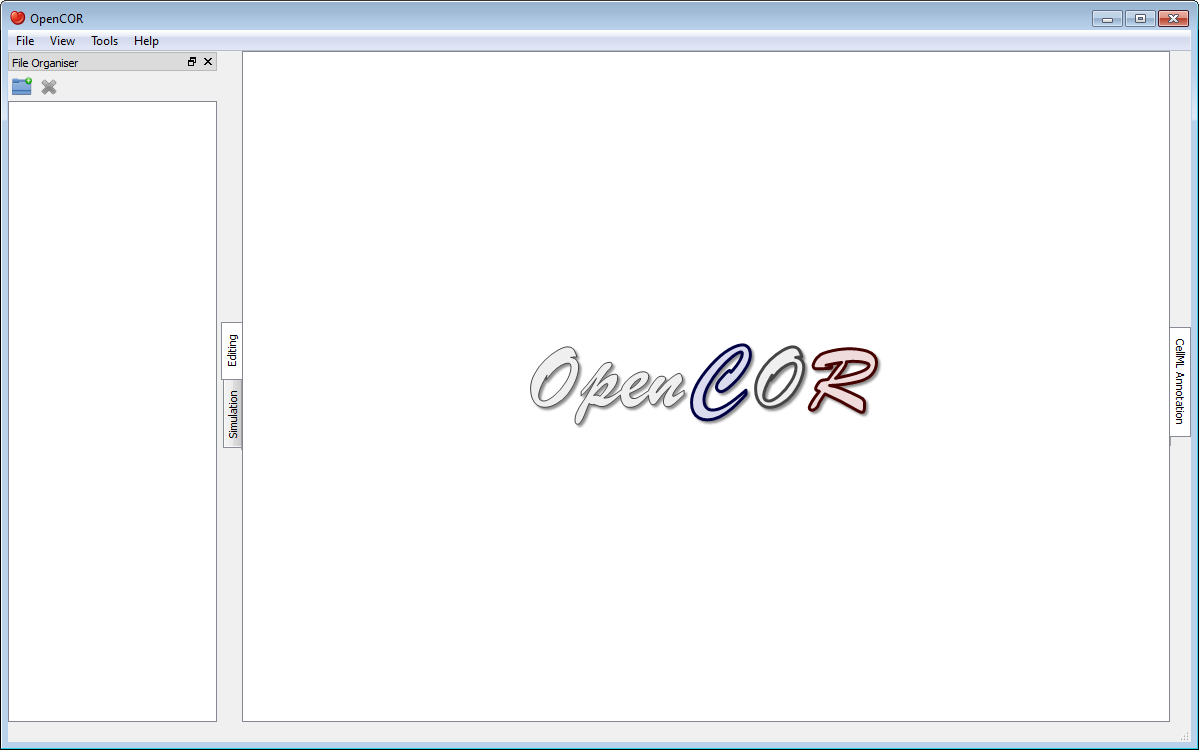
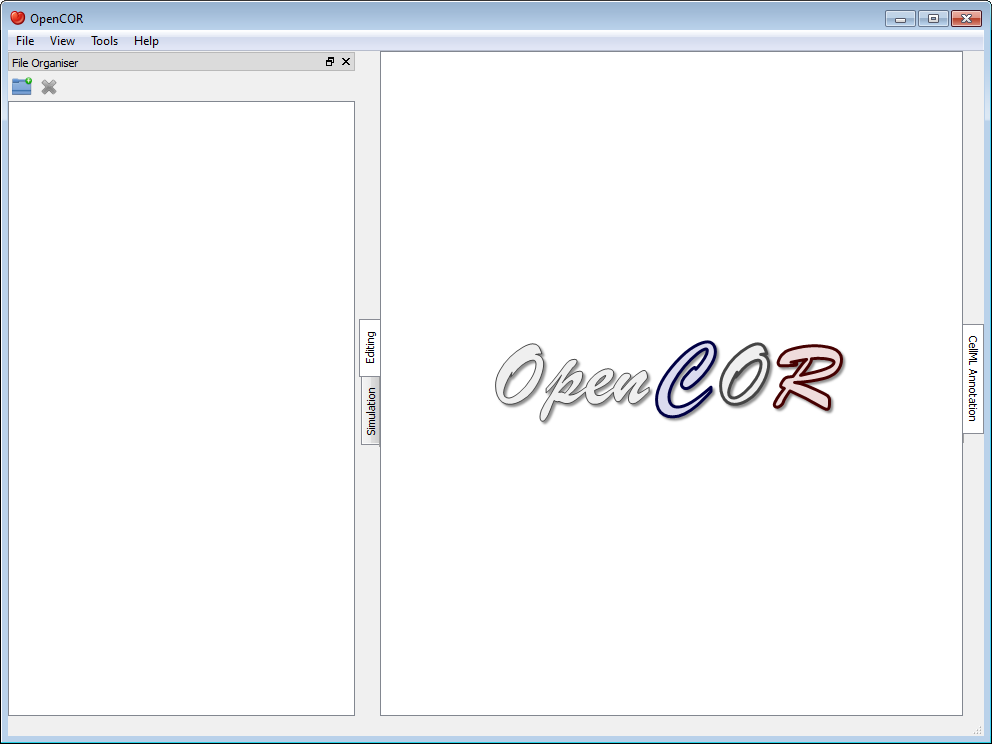
Some editing of our documentation.

diff --git a/doc/user/plugins/FileOrganiser.html b/doc/user/plugins/FileOrganiser.html
@@ -22,48 +22,48 @@
             The FileOrganiser plugin allows you to organise your files virtually, i.e. independently of where they are physically located, remembering your virtual environment from one session to another. By default, your virtual environment will be empty:
         </p>
 
-        <p>
-            <a class="image" href="../res/image.html?image=../plugins/res/pics/FileOrganiserScreenshot01.png&caption=FileOrganiser plugin: default view"><img class="centerLink" src="res/pics/FileOrganiserScreenshot01Small.png" width=480 height=300 alt="FileOrganiser plugin: default view"></a>
+        <p class="center">
+            <a class="image" href="../res/image.html?image=../plugins/res/pics/FileOrganiserScreenshot01.png&caption=FileOrganiser plugin: default view"><img class="link" src="res/pics/FileOrganiserScreenshot01Small.png" width=360 height=270 alt="FileOrganiser plugin: default view"></a>
         </p>
 
         <p>
             Say that you are wokring on a particular modelling study. You might then want to create a (virtual) folder for your study and have your models (which could be physically located anywhere). To do so, you would first click on the <img src="res/pics/oxygen/actions/folder-new.png" width=24 height=24 alt="New" align=absmiddle> icon in the toolbar (or by using the context menu). This will add a folder to your virtual environment:
         </p>
 
-        <p>
-            <a class="image" href="../res/image.html?image=../plugins/res/pics/FileOrganiserScreenshot02.png&caption=FileOrganiser plugin: create a folder"><img class="centerLink" src="res/pics/FileOrganiserScreenshot02Small.png" width=480 height=300 alt="FileOrganiser plugin: create a folder"></a>
+        <p class="center">
+            <a class="image" href="../res/image.html?image=../plugins/res/pics/FileOrganiserScreenshot02.png&caption=FileOrganiser plugin: create a folder"><img class="link" src="res/pics/FileOrganiserScreenshot02Small.png" width=360 height=270 alt="FileOrganiser plugin: create a folder"></a>
         </p>
 
         <p>
             You can rename the folder as you wish, as well as create other ones, including some sub-folders, if needed:
         </p>
 
-        <p>
-            <a class="image" href="../res/image.html?image=../plugins/res/pics/FileOrganiserScreenshot03.png&caption=FileOrganiser plugin: create several (sub-)folders"><img class="centerLink" src="res/pics/FileOrganiserScreenshot03Small.png" width=480 height=300 alt="FileOrganiser plugin: create several (sub-)folders"></a>
+        <p class="center">
+            <a class="image" href="../res/image.html?image=../plugins/res/pics/FileOrganiserScreenshot03.png&caption=FileOrganiser plugin: create several (sub-)folders"><img class="link" src="res/pics/FileOrganiserScreenshot03Small.png" width=360 height=270 alt="FileOrganiser plugin: create several (sub-)folders"></a>
         </p>
 
         <p>
             You can move the (sub-)folders around by simply dragging and dropping them, or delete an existing (sub-)folder by clicking on the <img src="res/pics/oxygen/actions/edit-delete.png" width=24 height=24 alt="Delete" align=absmiddle> icon in the toolbar (or by using the context menu):
         </p>
 
-        <p>
-            <a class="image" href="../res/image.html?image=../plugins/res/pics/FileOrganiserScreenshot04.png&caption=FileOrganiser plugin: move/delete (sub-)folders"><img class="centerLink" src="res/pics/FileOrganiserScreenshot04Small.png" width=480 height=300 alt="FileOrganiser plugin: move/delete (sub-)folders"></a>
+        <p class="center">
+            <a class="image" href="../res/image.html?image=../plugins/res/pics/FileOrganiserScreenshot04.png&caption=FileOrganiser plugin: move/delete (sub-)folders"><img class="link" src="res/pics/FileOrganiserScreenshot04Small.png" width=360 height=270 alt="FileOrganiser plugin: move/delete (sub-)folders"></a>
         </p>
 
         <p>
             Next, you might want to open the <a href="FileBrowser.html">File Browser</a> window, so you can start dragging and dropping files into your virtual environment:
         </p>
 
-        <p>
-            <a class="image" href="../res/image.html?image=../plugins/res/pics/FileOrganiserScreenshot05.png&caption=FileOrganiser plugin: add files"><img class="centerLink" src="res/pics/FileOrganiserScreenshot05Small.png" width=480 height=300 alt="FileOrganiser plugin: add files"></a>
+        <p class="center">
+            <a class="image" href="../res/image.html?image=../plugins/res/pics/FileOrganiserScreenshot05.png&caption=FileOrganiser plugin: add files"><img class="link" src="res/pics/FileOrganiserScreenshot05Small.png" width=360 height=270 alt="FileOrganiser plugin: add files"></a>
         </p>
 
         <p>
             As for folders, you can move and delete your (virtual) files:
         </p>
 
-        <p>
-            <a class="image" href="../res/image.html?image=../plugins/res/pics/FileOrganiserScreenshot06.png&caption=FileOrganiser plugin: move/delete files"><img class="centerLink" src="res/pics/FileOrganiserScreenshot06Small.png" width=480 height=300 alt="FileOrganiser plugin: move/delete files"></a>
+        <p class="center">
+            <a class="image" href="../res/image.html?image=../plugins/res/pics/FileOrganiserScreenshot06.png&caption=FileOrganiser plugin: move/delete files"><img class="link" src="res/pics/FileOrganiserScreenshot06Small.png" width=360 height=270 alt="FileOrganiser plugin: move/delete files"></a>
         </p>
 
         <div class="section">

diff --git a/doc/user/userInterfaces/graphicalUserInterface.html b/doc/user/userInterfaces/graphicalUserInterface.html
@@ -22,16 +22,16 @@
             OpenCOR offers a consistent GUI across the <a href="../supportedPlatforms.html">different platforms</a> it supports. The look and feel of the interface is determined by the <a href="../plugins/index.html">plugins</a> which are selected. The first time you run OpenCOR, it will look something like this:
         </p>
 
-        <p>
-            <a class="image" href="../res/image.html?image=../userInterfaces/res/pics/screenshot01.png&caption=Default looking OpenCOR"><img class="centerLink" src="res/pics/screenshot01Small.png" width=360 height=270 alt="Default looking OpenCOR"></a>
+        <p class="center">
+            <a class="image" href="../res/image.html?image=../userInterfaces/res/pics/screenshot01.png&caption=Default looking OpenCOR"><img class="link" src="res/pics/screenshot01Small.png" width=360 height=270 alt="Default looking OpenCOR"></a>
         </p>
 
         <p>
             There is a central area which is used to interact with files. By default, no file is opened, hence the OpenCOR logo is shown instead. To the sides, there are dockable windows which each provide additional features. Those windows can be dragged and dropped to the top or bottom of the central area:
         </p>
 
-        <p>
-            <a class="image" href="../res/image.html?image=../userInterfaces/res/pics/screenshot02.png&caption=Use of all docking areas"><img class="centerLink" src="res/pics/screenshot02Small.png" width=360 height=270 alt="Use of all docking areas"></a>
+        <p class="center">
+            <a class="image" href="../res/image.html?image=../userInterfaces/res/pics/screenshot02.png&caption=Use of all docking areas"><img class="link" src="res/pics/screenshot02Small.png" width=360 height=270 alt="Use of all docking areas"></a>
         </p>
 
         <p>
@@ -46,16 +46,16 @@
             Or even closed, either by directly closing the window itself or by unticking the corresponding menu item (under the <code>View</code> menu, or the <code>Help</code> menu for the Help window):
         </p>
 
-        <p>
-            <a class="image" href="../res/image.html?image=../userInterfaces/res/pics/screenshot04.png&caption=Showing/hiding windows"><img class="centerLink" src="res/pics/screenshot04Small.png" width=360 height=270 alt="Showing/hiding windows"></a>
+        <p class="center">
+            <a class="image" href="../res/image.html?image=../userInterfaces/res/pics/screenshot04.png&caption=Showing/hiding windows"><img class="link" src="res/pics/screenshot04Small.png" width=360 height=270 alt="Showing/hiding windows"></a>
         </p>
 
         <p>
             To unselect all the <a href="../plugins/index.html">plugins</a> will result in OpenCOR looking 'empty':
         </p>
 
-        <p>
-            <a class="image" href="../res/image.html?image=../userInterfaces/res/pics/screenshot05.png&caption=Empty looking OpenCOR"><img class="centerLink" src="res/pics/screenshot05Small.png" width=360 height=270 alt="Empty looking OpenCOR"></a>
+        <p class="center">
+            <a class="image" href="../res/image.html?image=../userInterfaces/res/pics/screenshot05.png&caption=Empty looking OpenCOR"><img class="link" src="res/pics/screenshot05Small.png" width=360 height=270 alt="Empty looking OpenCOR"></a>
         </p>
 
         <div class="section">

diff --git a/doc/user/plugins/FileBrowser.html b/doc/user/plugins/FileBrowser.html
@@ -22,24 +22,24 @@
             The FileBrowser plugin offers a convenient way to access your physical files, remembering the folder or file which was selected when you last ran OpenCOR. By default, it will start by selecting your home directory:
         </p>
 
-        <p>
-            <a class="image" href="../res/image.html?image=../plugins/res/pics/FileBrowserScreenshot01.png&caption=FileBrowser plugin: default view"><img class="centerLink" src="res/pics/FileBrowserScreenshot01Small.png" width=360 height=270 alt="FileBrowser plugin: default view"></a>
+        <p class="center">
+            <a class="image" href="../res/image.html?image=../plugins/res/pics/FileBrowserScreenshot01.png&caption=FileBrowser plugin: default view"><img class="link" src="res/pics/FileBrowserScreenshot01Small.png" width=360 height=270 alt="FileBrowser plugin: default view"></a>
         </p>
 
         <p>
             As expected, to double click on a folder will expand its contents, as can be seen by expanding the Windows directory:
         </p>
 
-        <p>
-            <a class="image" href="../res/image.html?image=../plugins/res/pics/FileBrowserScreenshot02.png&caption=FileBrowser plugin: double clicking on a folder"><img class="centerLink" src="res/pics/FileBrowserScreenshot02Small.png" width=360 height=270 alt="FileBrowser plugin: double clicking on a folder"></a>
+        <p class="center">
+            <a class="image" href="../res/image.html?image=../plugins/res/pics/FileBrowserScreenshot02.png&caption=FileBrowser plugin: double clicking on a folder"><img class="link" src="res/pics/FileBrowserScreenshot02Small.png" width=360 height=270 alt="FileBrowser plugin: double clicking on a folder"></a>
         </p>
 
         <p>
             While double clicking on a file will result in it being opened by OpenCOR. The rendering of the file will depend on the current view plugin. In the case of the <a href="CellMLAnnotationView.html">CellMLAnnotationView</a> plugin, it will look as follows:
         </p>
 
-        <p>
-            <a class="image" href="../res/image.html?image=../plugins/res/pics/FileBrowserScreenshot03.png&caption=FileBrowser plugin: double clicking on a file"><img class="centerLink" src="res/pics/FileBrowserScreenshot03Small.png" width=360 height=270 alt="FileBrowser plugin: double clicking on a file"></a>
+        <p class="center">
+            <a class="image" href="../res/image.html?image=../plugins/res/pics/FileBrowserScreenshot03.png&caption=FileBrowser plugin: double clicking on a file"><img class="link" src="res/pics/FileBrowserScreenshot03Small.png" width=360 height=270 alt="FileBrowser plugin: double clicking on a file"></a>
         </p>
 
         <p>

diff --git a/doc/user/plugins/Help.html b/doc/user/plugins/Help.html
@@ -22,24 +22,24 @@
             The Help plugin provides some user documentation looks as follows:
         </p>
 
-        <p>
-            <a class="image" href="../res/image.html?image=../plugins/res/pics/HelpScreenshot01.png&caption=Help plugin: default view"><img class="centerLink" src="res/pics/HelpScreenshot01Small.png" width=480 height=300 alt="Help plugin: default view"></a>
+        <p class="center">
+            <a class="image" href="../res/image.html?image=../plugins/res/pics/HelpScreenshot01.png&caption=Help plugin: default view"><img class="link" src="res/pics/HelpScreenshot01Small.png" width=360 height=270 alt="Help plugin: default view"></a>
         </p>
 
         <p>
             As any <a href="userInterfaces/graphicalUserInterface.html">dockable window</a>, it can be hidden either directly or through the menu. However, not through the <code>View</code> menu but the <code>Help</code> menu:
         </p>
 
-        <p>
-            <a class="image" href="../res/image.html?image=../plugins/res/pics/HelpScreenshot02.png&caption=Help plugin: show/hide the plugin"><img class="centerLink" src="res/pics/HelpScreenshot02Small.png" width=480 height=300 alt="Help plugin: show/hide the plugin"></a>
+        <p class="center">
+            <a class="image" href="../res/image.html?image=../plugins/res/pics/HelpScreenshot02.png&caption=Help plugin: show/hide the plugin"><img class="link" src="res/pics/HelpScreenshot02Small.png" width=360 height=270 alt="Help plugin: show/hide the plugin"></a>
         </p>
 
         <p>
             The contents of the documentation provided by the Help plugin is the same as the one found in the <a href="http://www.opencor.ws/user/index.html">user documentation</a> section of the <a href="http://www.opencor.ws/">OpenCOR website</a>. This includes a menu which gets shown when hovering over the information icon (in the top right):
         </p>
 
-        <p>
-            <a class="image" href="../res/image.html?image=../plugins/res/pics/HelpScreenshot03.png&caption=Help plugin: context menu"><img class="centerLink" src="res/pics/HelpScreenshot03Small.png" width=480 height=300 alt="Help plugin: context menu"></a>
+        <p class="center">
+            <a class="image" href="../res/image.html?image=../plugins/res/pics/HelpScreenshot03.png&caption=Help plugin: context menu"><img class="link" src="res/pics/HelpScreenshot03Small.png" width=360 height=270 alt="Help plugin: context menu"></a>
         </p>
 
         <p>

diff --git a/doc/user/plugins/CellMLModelRepository.html b/doc/user/plugins/CellMLModelRepository.html
@@ -22,16 +22,16 @@
             The CellMLModelRepository plugin offers an interface to the <a href="http://models.cellml.org/">CellML Model Repository</a>. By default, it lists all the CellML models found in the repository:
         </p>
 
-        <p>
-            <a class="image" href="../res/image.html?image=../plugins/res/pics/CellMLModelRepositoryScreenshot01.png&caption=CellMLModelRepository plugin: list of all the CellML files"><img class="centerLink" src="res/pics/CellMLModelRepositoryScreenshot01Small.png" width=360 height=270 alt="CellMLModelRepository plugin: list of all the CellML files"></a>
+        <p class="center">
+            <a class="image" href="../res/image.html?image=../plugins/res/pics/CellMLModelRepositoryScreenshot01.png&caption=CellMLModelRepository plugin: list of all the CellML files"><img class="link" src="res/pics/CellMLModelRepositoryScreenshot01Small.png" width=360 height=270 alt="CellMLModelRepository plugin: list of all the CellML files"></a>
         </p>
 
         <p>
             The list can then be filtered. For example, if you enter <strong>Noble</strong> as a filter, you will get:
         </p>
 
-        <p>
-            <a class="image" href="../res/image.html?image=../plugins/res/pics/CellMLModelRepositoryScreenshot02.png&caption=CellMLModelRepository plugin: filtered list of CellML files"><img class="centerLink" src="res/pics/CellMLModelRepositoryScreenshot02Small.png" width=360 height=270 alt="CellMLModelRepository plugin: filtered list of CellML files"></a>
+        <p class="center">
+            <a class="image" href="../res/image.html?image=../plugins/res/pics/CellMLModelRepositoryScreenshot02.png&caption=CellMLModelRepository plugin: filtered list of CellML files"><img class="link" src="res/pics/CellMLModelRepositoryScreenshot02Small.png" width=360 height=270 alt="CellMLModelRepository plugin: filtered list of CellML files"></a>
         </p>
 
         <p>

diff --git a/doc/user/plugins/index.html b/doc/user/plugins/index.html
@@ -26,8 +26,8 @@
             As can be seen by opening the Plugins dialog box (<span class="opencor">either </span>by selecting the <code>Tools</code> | <code>Plugins...</code> menu<span class="opencor"> or by clicking <a href="gui://actionPlugins">here</a></span>) and by unselecting <code>Show only selectable plugins</code> (if necessary), OpenCOR supports different types of plugins (Organisation, Editing, Simulation, Miscellaneous, API and Third-party; see below):
         </ul>
 
-        <p>
-            <a class="image" href="../res/image.html?image=../plugins/res/pics/screenshot01.png&caption=Plugins window"><img class="centerLink" src="res/pics/screenshot01Small.png" width=310 height=300 alt="Plugins window"></a>
+        <p class="center">
+            <a class="image" href="../res/image.html?image=../plugins/res/pics/screenshot01.png&caption=Plugins window"><img class="link" src="res/pics/screenshot01Small.png" width=310 height=300 alt="Plugins window"></a>
         </p>
 
         <p>

diff --git a/doc/res/common.css b/doc/res/common.css
@@ -57,21 +57,6 @@ img.center {
     padding: 7px;
 }
 
-img.centerLink {
-    display: block;
-    margin-left: auto;
-    margin-right: auto;
-    padding: 7px;
-}
-
-img.centerLink:hover {
-    margin-top: -1px;
-    margin-bottom: -1px;
-    border: 1px solid rgba(103, 103, 103, 0.13);
-    border-radius: 7px;
-    background: rgba(103, 103, 103, 0.05);
-}
-
 li {
     list-style-type: square;
 }

diff --git a/doc/user/res/stylesheet.css b/doc/user/res/stylesheet.css
@@ -37,12 +37,18 @@ code {
     color: rgb(54, 96, 146);
 }
 
-img.centerLink {
+img.link {
+    margin-left: auto;
+    margin-right: auto;
     border: none;
+    padding: 7px;
 }
 
-img.centerLink:hover {
+img.link:hover {
+    margin-top: -1px;
+    margin-bottom: -1px;
     border: 1px solid rgba(54, 96, 146, 0.13);
+    border-radius: 7px;
     background: rgba(54, 96, 146, 0.05);
 }
 
